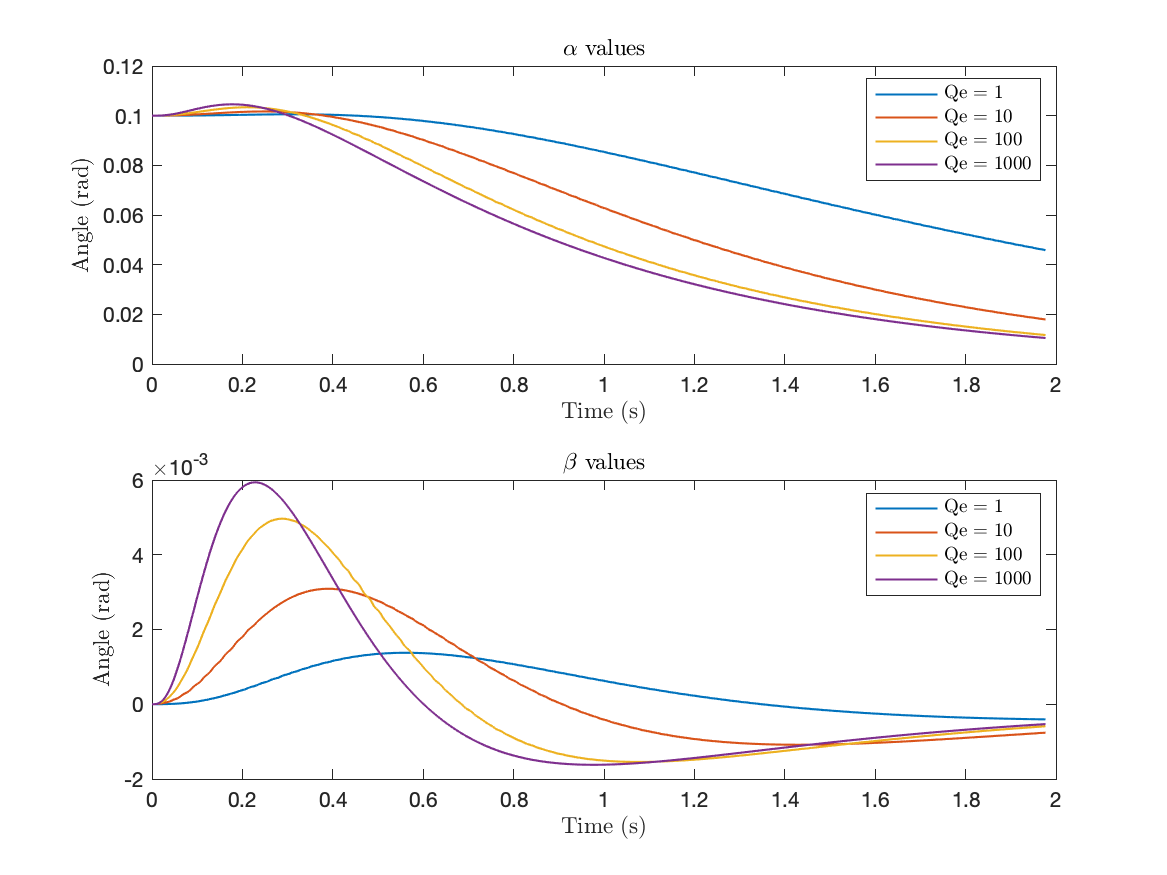
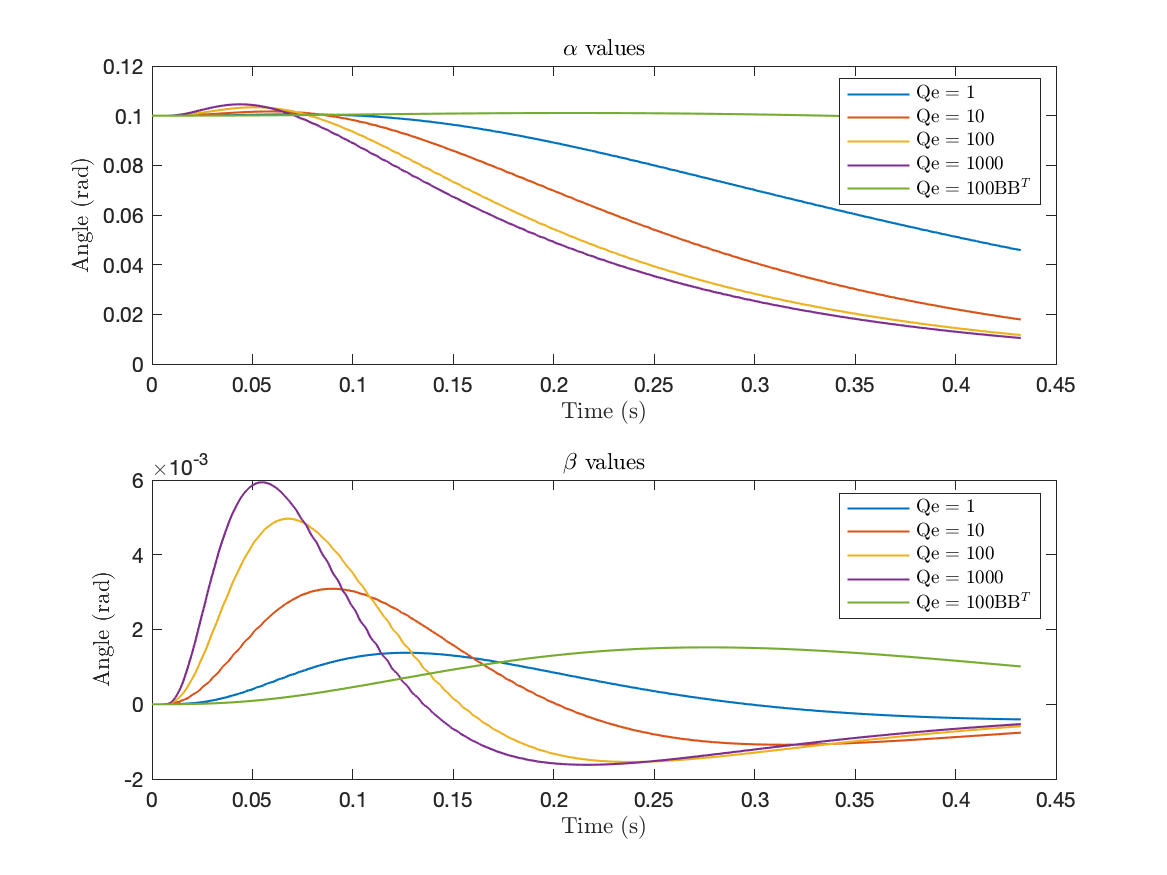
added new qe

diff --git a/simulater.m b/simulater.m
@@ -87,7 +87,7 @@ x0=[0.1 0 0 0 0]';
 D=[0 0 0 0 0]'; 
 T=2; %Time
 weight = 0.001;
-angles_values = zeros(453,2*4);
+angles_values = zeros(453,2*5);
 count = 1;
 for i = 1:5
     Rr = weight;    
@@ -129,10 +129,14 @@ x0=[0.1 0 0 0 0]';
 D=[0 0 0 0 0]'; 
 T=2; %Time 
 weight = 1;
-angles_values = zeros(446,2*4);
+angles_values = zeros(446,2*5);
 count = 1;
-for i = 1:4
-    Qe=eye(size(A))*weight;
+for i = 1:5
+    if i == 5
+        Qe= 1e2*B*(B');
+    else
+        Qe=eye(size(A))*weight;
+    end
     L=lqe(A,G,C,Qe,Re);
     A_controler=A-B*K-L*C;
     B_controler=L;
@@ -150,14 +154,14 @@ plot(t(1:446),angles_values(:, 1:2:end), 'LineWidth', 1);
 title('$\alpha$ values', 'Interpreter','latex');
 xlabel('Time (s)', 'Interpreter','latex');
 ylabel('Angle (rad)', 'Interpreter','latex');
-legend('Qe = 1', 'Qe = 10', 'Qe = 100', 'Qe = 1000', 'Interpreter','latex'); % Update legend as per your requirement
+legend('Qe = 1', 'Qe = 10', 'Qe = 100', 'Qe = 1000','Qe = 100BB$^T$', 'Interpreter','latex'); % Update legend as per your requirement
 
 subplot(2, 1, 2);
 plot(t(1:446),angles_values(:, 2:2:end), 'LineWidth', 1);
 title('$\beta$ values', 'Interpreter','latex');
 xlabel('Time (s)', 'Interpreter','latex');
 ylabel('Angle (rad)', 'Interpreter','latex');
-legend('Qe = 1', 'Qe = 10', 'Qe = 100', 'Qe = 1000', 'Interpreter','latex'); % Update legend as per your requirement
+legend('Qe = 1', 'Qe = 10', 'Qe = 100', 'Qe = 1000','Qe = 100BB$^T$', 'Interpreter','latex'); % Update legend as per your requirement
 % filename = 'Qe_simulations.png';
 % 
 % saveas(gcf, fullfile('figures/',filename));

diff --git a/metrics.m b/metrics.m
@@ -5,7 +5,7 @@ metrics_struct = struct('mean_value', [], ...
                         'std_value', [], ...
                         'alpha_overshoot', [], 'beta_overshoot', [], ...
                         'ts_alpha', [], 'ts_beta', []);
-for i=1:4
+for i=1:5
     y = angles_values(:,counter:counter+1);
     [mean_value,amp_alpha,amp_beta, mse_alpha, ...
     mse_beta,std_value, alpha_overshoot, beta_overshoot, ...
@@ -34,7 +34,7 @@ end
 % Qe_value = Qe(1,1);
 % Re_value = Re(1,1);
 % 
-file_name = 'Re_simulations';
+file_name = 'Qe_simulations';
 save(fullfile('metrics', [file_name, '.mat']), 'metrics_struct');
 
 function [mean_values,amp_alpha,amp_beta, mse_alpha, ...
